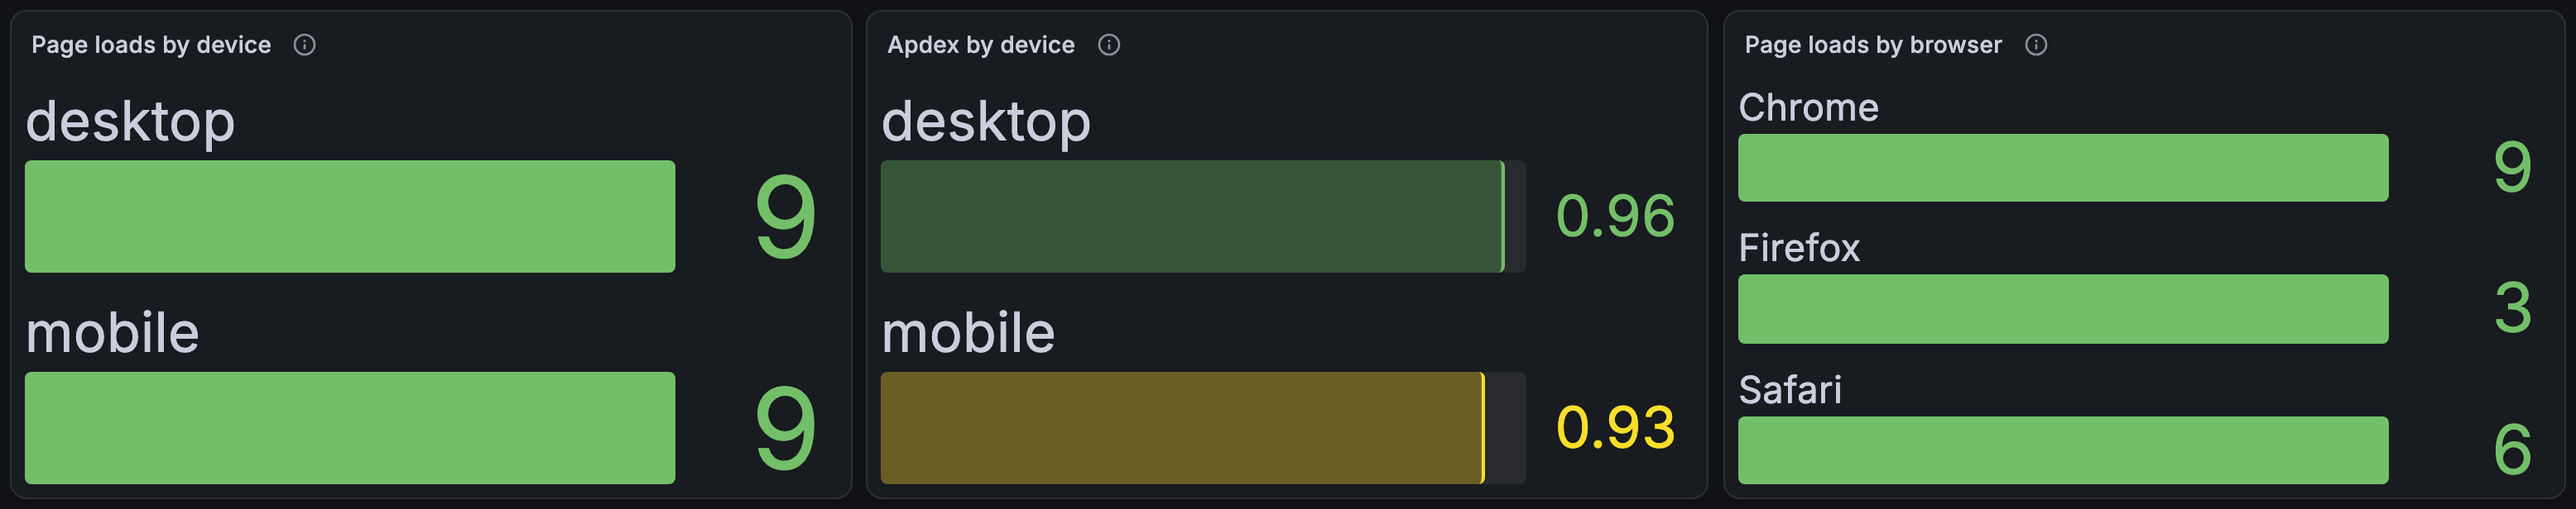
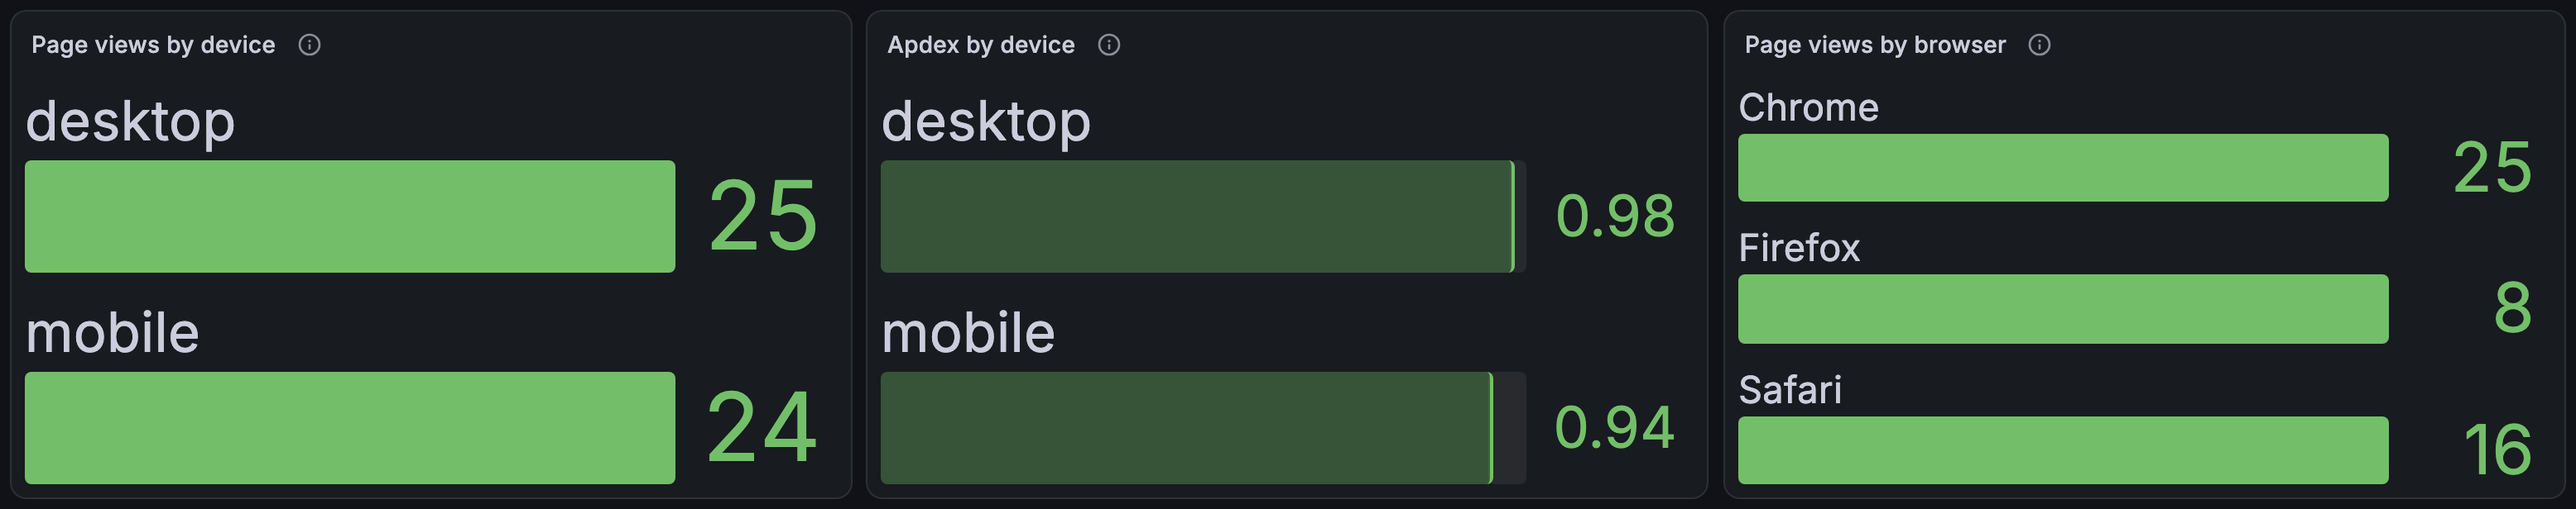
fix: duplicate spans deleted

diff --git a/overlay/frontend/src/tracer.ts b/overlay/frontend/src/tracer.ts
@@ -82,6 +82,9 @@ function describe (el: Element) {
 
 // The click span that fired last, for the fetch bridge below.
 let lastClick: { span: Span, at: number } | null = null
+// For the duplicate check in the click hook below.
+const DUPLICATE_WINDOW_MS = 50
+let lastInteraction: { element: Element | null, type: string, at: number } = { element: null, type: '', at: -Infinity }
 
 registerInstrumentations({
   tracerProvider: provider,
@@ -90,8 +93,14 @@ registerInstrumentations({
     new UserInteractionInstrumentation({
       // Login runs on the form's submit event, not on a click, so listen for both.
       eventNames: ['click', 'submit'],
-      // The hook gets the DOM element and the span: label the interaction, never drop it.
+      // The hook gets the DOM element and the span: label the interaction, and drop a duplicate.
       shouldPreventSpanCreation: (event, element, span) => {
+        // Under zone.js the instrumentation opens one span per listener task, so one click on
+        // a button with two click listeners yields two identical spans (counts doubled in the
+        // lab). One element, one event type, within 50 ms is the same interaction: keep the first.
+        const now = performance.now()
+        if (element === lastInteraction.element && event === lastInteraction.type && now - lastInteraction.at < DUPLICATE_WINDOW_MS) return true
+        lastInteraction = { element, type: event, at: now }
         const d = describe(element)
         span.setAttribute('ui.element.id', d.id)
         span.setAttribute('ui.element.label', d.label)

diff --git a/docs/changes/07-business-dashboard.md b/docs/changes/07-business-dashboard.md
@@ -13,7 +13,7 @@ Shorthand below: `FE` = `resource.service.name = "juice-shop-frontend"`,
 | Panel | Meaning | Query |
 | --- | --- | --- |
 | Login success | Share of login attempts the server accepted | `({ BE && kind = server && span.http.route = "/rest/user/login" && span.http.response.status_code = 200 } \| rate()) / ({ ...same without the status filter } \| rate())` |
-| Apdex | See below | `(({ API && duration < 500ms } \| rate()) + ({ API && duration >= 500ms && duration < 2s } \| rate()) / 2) / ({ API } \| rate())` |
+| Apdex | See below | `((({ API && duration < 500ms } \| rate()) + ({ API && duration < 2s } \| rate())) / ({ API } \| rate())) / 2` |
 | Basket to order | Orders placed / items added | `({ BE && kind = server && span.http.route = "/rest/basket/:id/checkout" } \| rate()) / ({ BE && kind = server && span.http.request.method = "POST" && span.http.route = "/api/BasketItems" } \| rate())` |
 | API errors | Share of the browser's API calls answered 4xx or 5xx | `({ API && span.http.response.status_code >= 400 } \| rate()) / ({ API } \| rate())` |
 
@@ -24,6 +24,9 @@ T (here 500 ms). A request faster than T is *satisfied* and counts 1. Slower tha
 faster than 4T (2 s) is *tolerating* and counts one half. Slower than that counts 0.
 
 `Apdex = (satisfied + tolerating / 2) / total`
+
+Because `tolerating = under 2 s - under 500 ms`, the dashboard computes the same number as
+`((under 500 ms + under 2 s) / total) / 2`, which keeps working when a group has no tolerating calls.
 
 Read it as: 0.94 and up is excellent, 0.85 to 0.94 good, 0.7 to 0.85 fair, below 0.7 poor.
 The thresholds on the panel use those bands. The duration is what the **browser** measured
@@ -51,6 +54,8 @@ on its fetch span, so slow networks and slow devices count against you, which is
 - **The funnel route is `/api/BasketItems`** with no trailing slash. A trailing slash matches nothing.
 - **The gap panel's legend read `{p=0.95, resource.service.name="juice-shop-backend"}`.** A field override with `displayName` renames the series to "Server (p95)" and "Browser (p95)".
 - **"Basket to order" turned red at 50%.** Whether 50% is good depends on the shop, so that tile has one neutral colour.
+- **Apdex vanished for a device or country with no half-happy calls.** The first formula added a separate `500 ms to 2 s` rate. TraceQL metrics returns no series for an empty group, so the whole division returned nothing: a 15-minute window of only fast calls showed "No data". Rewriting it as `(under 500 ms + under 2 s) / total / 2` is the same score and always has its terms. It still returns nothing if every call is slower than 2 s.
+- **"Page loads" panels were empty for anyone who stayed inside the app.** `documentLoad` fires once per full page load. The device, browser and country panels now count `documentLoad` plus `navigation` spans and are called "Page views".
 - **A stat showed `1.0` for 0.98.** Set `decimals` to 2 on the Apdex panel.
 - **Basket to order is a ratio of two rates**, not a per-shopper conversion. Someone who adds three items and orders once counts as 1 order against 3 additions. For a real conversion rate, count distinct `session.id` values, which TraceQL metrics cannot do.
 - **Quantiles are approximate.** Tempo estimates them from log-scale buckets.

diff --git a/docs/changes/01-frontend-tracer.md b/docs/changes/01-frontend-tracer.md
@@ -155,13 +155,12 @@ window.fetch = (...args) => {
 }
 ```
 
-**Measured** on 3 rounds of 6 scripted shoppers (2026-10-05):
+**Measured** on 2 rounds of 6 scripted shoppers, after the duplicate fix of layer 8 (2026-10-13):
 
 | Click or submit span | Spans | With child API call | What the children were |
 | --- | --- | --- | --- |
-| `submit login-form` | 30 | 30 | `POST /rest/user/login` 30 of 30, plus the reads that follow a login |
-| `click Add to Basket` | 20 | 17 | `POST /api/BasketItems` 17 of 20, plus basket and product reads |
-| `click loginButton` | 30 | 0 | the request belongs to the form's `submit` span |
+| `submit login-form` | 20 | 20 | `POST /rest/user/login` 20 of 20, plus the reads that follow a login |
+| `click Add to Basket` | 12 | 12 | `POST /api/BasketItems` 12 of 12, plus basket and product reads |
 
 Without the wrapper, none of the 7 click traces we inspected had a child; with it, 6 of 7 held the
 click, the browser's `fetch` and the backend's server span in one trace.
@@ -172,3 +171,37 @@ message` span adopted a `POST /api/Users`, which was our test script calling `fe
 Traces get larger. Dashboards are unaffected: they read the `fetch` and server spans, whose names
 and attributes did not change. A wrapper that relies on the framework's own change detection (for
 example Angular's `NgZone`) would be more exact, and we did not try it.
+
+## Layer 8: one click, one span
+
+**Before:** a single click on a basket button could produce two identical spans. In the lab the
+product counts were doubled for some products: a user added one of each product and the panel
+showed 2 for some of them.
+
+**Why:** with zone.js the user-interaction instrumentation opens one span per event **listener
+task** that runs for the event, not one per click (`_patchZoneRunTask` calls `_createSpan` for
+each task). A button with two click listeners yields two spans, a few hundred microseconds apart,
+same element, same session. The first click after a page loads had one listener and made one span;
+later clicks had two. It also inflated `Clicks by element`, the cookie banner and welcome
+banner counts, and an earlier version of the click-to-request numbers above (20 spans for 18 clicks).
+
+**After:** the hook drops a span for the same element and the same event type that follows another
+within 50 ms:
+
+```ts
+const DUPLICATE_WINDOW_MS = 50
+let lastInteraction = { element: null, type: '', at: -Infinity }
+// in shouldPreventSpanCreation:
+const now = performance.now()
+if (element === lastInteraction.element && event === lastInteraction.type && now - lastInteraction.at < DUPLICATE_WINDOW_MS) return true
+lastInteraction = { element, type: event, at: now }
+```
+
+Returning `true` from `shouldPreventSpanCreation` discards the span before it is stored.
+
+**Verified** (2026-10-13), 2 rounds of 6 scripted shoppers: 12 `click Add to Basket` spans against 12
+`POST /api/BasketItems` server spans against 12 add clicks the script made, 20 `submit login-form`
+spans for 20 login attempts, and no two spans from one session with the same name within 5 ms.
+
+**Limit:** two real, deliberate clicks on the same element within 50 ms would count once. Nobody
+clicks that fast, but an automated test could.

diff --git a/README.md b/README.md
@@ -149,7 +149,7 @@ by route, clicks by element, errors users hit, and a checkout funnel.
 
 The top row is four numbers: **login success**, **Apdex** (user satisfaction from the browser's
 own API timings, 500 ms threshold), **basket to order** and **API errors**. Further down:
-the searches people typed, the products they added to the basket, and page loads and Apdex by
+the searches people typed, the products they added to the basket, and page views and Apdex by
 device and by country. The queries, how to
 read each panel and the caveats are in [docs/changes/07-business-dashboard.md](docs/changes/07-business-dashboard.md).
 What makes those panels readable is in `overlay/frontend/src/tracer.ts`: clicks and form
@@ -220,6 +220,9 @@ docker compose build juice-shop && docker compose up -d juice-shop
   the lab's traffic sends those in `x-forwarded-for` to simulate countries. For real lookups use
   GeoLite2-City (free account) or a country header from your CDN. Trust `x-forwarded-for` only
   when your own load balancer sets it. See [docs/changes/08](docs/changes/08-device-and-country.md).
+- **One click can produce two spans.** Under zone.js the user-interaction instrumentation opens a
+  span per click listener, which doubled product and click counts. `tracer.ts` drops a duplicate
+  from the same element within 50 ms; see [docs/changes/01](docs/changes/01-frontend-tracer.md), layer 8.
 - **Sampling changes what the numbers mean.** With uniform random sampling, ratios (Apdex, error
   share) stay roughly right but get noisier, while counts and `rate()` shrink by the sampling
   fraction and Tempo does not scale them back. If errors are sampled at a higher rate than

diff --git a/docs/changes/08-device-and-country.md b/docs/changes/08-device-and-country.md
@@ -3,7 +3,7 @@
 **Before:** every span says `service.name = juice-shop-frontend` and nothing about the
 visitor's device or location. A dashboard can tell you the app is slow, not for whom.
 **After:** coarse device facts are added in the browser, and a country is added in the
-Collector. The new "Who your users are" row of the business dashboard splits page loads
+Collector. The new "Who your users are" row of the business dashboard splits page views
 and Apdex by both.
 
 ## Device: `overlay/frontend/src/tracer.ts`
@@ -69,6 +69,10 @@ the region and the time zone, so only `geo.country.*` and `geo.continent.*` reac
 **Verified on 2026-10-05:** 12 page loads from 6 emulated shoppers landed with the expected
 device, browser, OS, time zone and country, and a query for spans that still had
 `client.address`, `geo.city_name`, `geo.location.lat` or `geo.postal_code` returned 0 traces.
+
+**An address the database does not know shows as `nil`.** The country panels then have a
+`nil` bar. In the lab that is anyone browsing from their own network, because the test
+database knows only a few documentation addresses; it is not a bug in the query.
 
 ## The database, and what to use outside the lab
 
